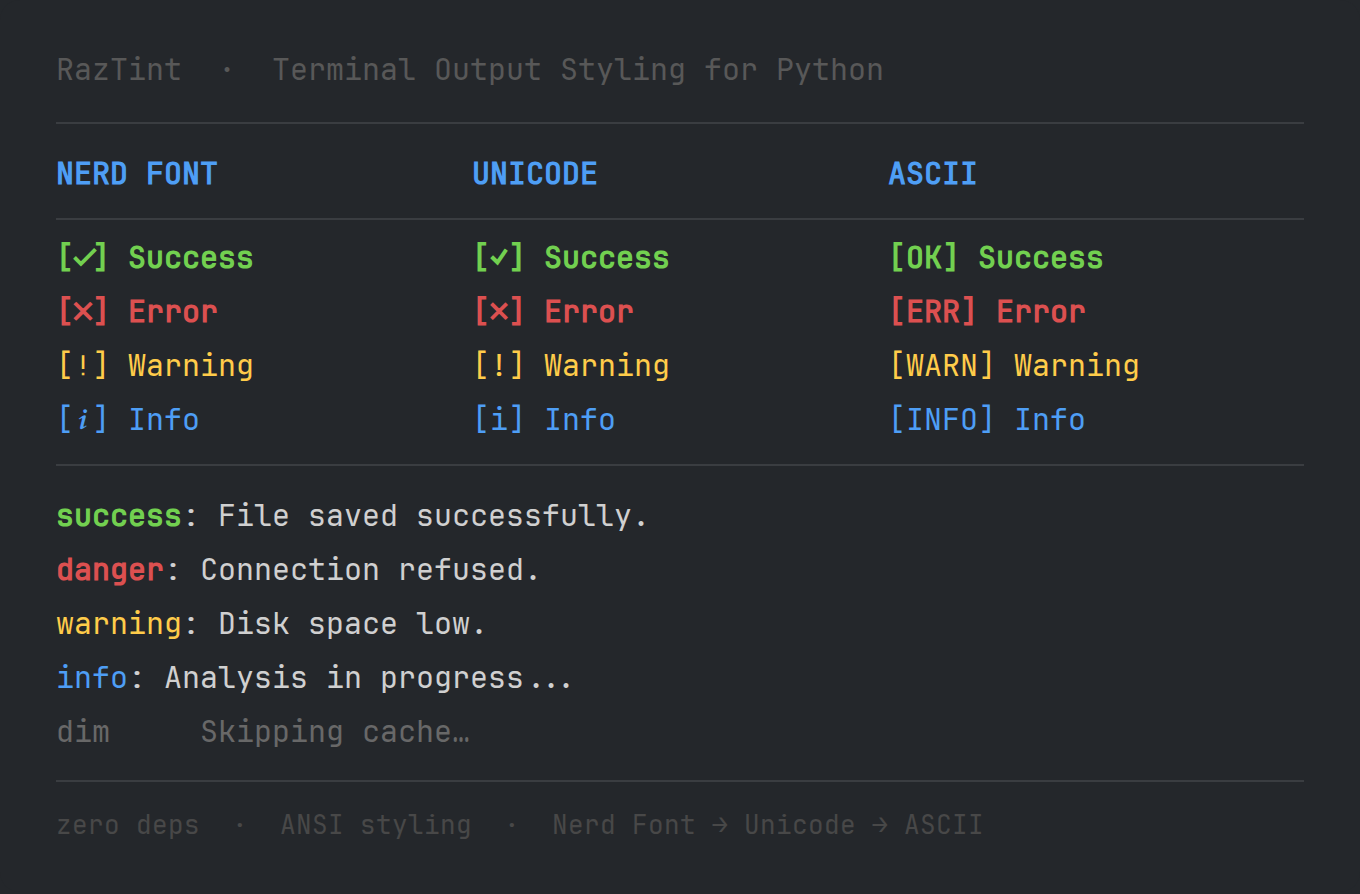
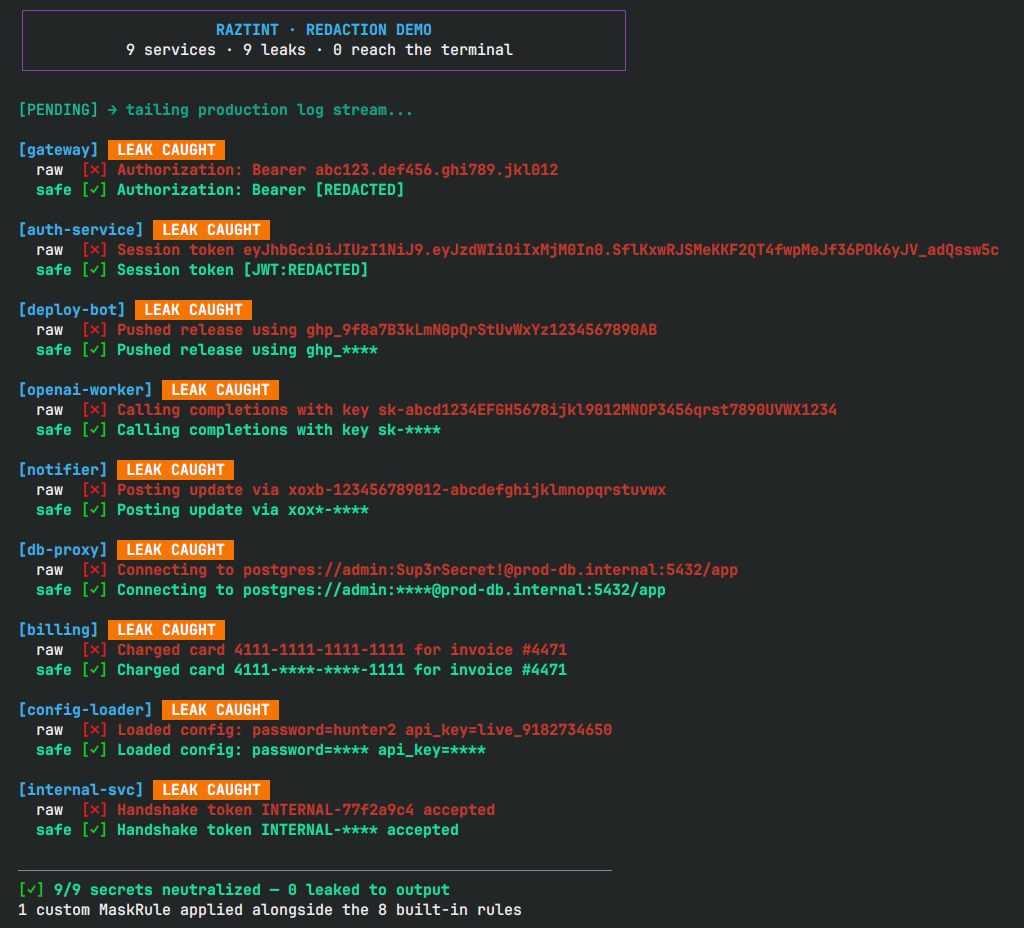
docs: rewrite README with clearer positioning and usage guide

diff --git a/examples/paint_demo.py b/examples/paint_demo.py
@@ -1,12 +1,12 @@
 """
-format_text_demo.py — Full showcase of paint(), the primary RazTint API.
+paint_demo.py Full showcase of paint(), the primary RazTint API.
 
 Covers: colors, background colors, every style, icon modes,
         intents, intent overrides, concatenation with reset=False,
         redaction, and runtime state inspection.
 
 Run:
-    python examples/format_text_demo.py
+    python examples/paint_demo.py
 """
 
 from raztint import paint, tint

diff --git a/examples/basic_usage.py b/examples/basic_usage.py
@@ -1,5 +1,5 @@
 """
-basic_usage.py — RazTint quick-start examples.
+basic_usage.py RazTint quick-start examples.
 
 Run:
     python examples/basic_usage.py

diff --git a/README.md b/README.md
@@ -1,74 +1,56 @@
 <div align="center">
   <img src="https://raw.githubusercontent.com/razbuild/raztint/master/assets/RazTint.svg" alt="RazTint" width="400" />
   <br><br>
-  
+
 [![PyPI Version](https://img.shields.io/pypi/v/raztint)](https://pypi.org/project/raztint/)
 [![Zero Dependencies](https://img.shields.io/badge/dependencies-zero-brightgreen)](https://github.com/razbuild/raztint)
 [![Codecov](https://img.shields.io/codecov/c/github/razbuild/raztint)](https://codecov.io/gh/razbuild/raztint)
 
 [![Python Versions](https://img.shields.io/pypi/pyversions/raztint)](https://pypi.org/project/raztint/)
 [![PyPI Downloads](https://static.pepy.tech/badge/raztint)](https://pepy.tech/project/raztint)
-
-  <p>A zero-dependency Python library for ANSI coloring and smart CLI icons that automatically adapt to your environment.</p>
 </div>
+
+Every module in a CLI codebase ends up inventing its own way to print "success" or "error." One file uses green text, another uses an emoji, a third does both differently. Output looks inconsistent, breaks in CI, and nobody notices until a log line leaks a password.
+
+```python
+# before
+print("\033[32mSuccess\033[0m")
+
+# after
+print(paint("Success", intent="success"))
+```
+
+RazTint defines a fixed mapping from intent (`success`, `danger`, `warning`, …) to color and icon once, and every call site reuses that same mapping instead of picking its own.
 
 ## Preview
 
 <p align="center">
-  <img src="./assets/preview.png" alt="RazTint preview: Nerd Font, Unicode, and ASCII icon modes with colored and styled output examples" width="644"/>
+  <img src="https://raw.githubusercontent.com/razbuild/raztint/master/assets/preview.png" alt="RazTint preview: Nerd Font, Unicode, and ASCII icon modes with colored and styled output examples" width="644"/>
 </p>
-
----
+<p align="center"><em>A simulated production log stream 9 secrets detected, 9 secrets redacted, 0 leaked to the terminal.</em></p>
 
 ## Table of Contents
 
-- [Preview](#preview)
-- [Why RazTint?](#why-raztint)
-- [Features](#features)
-- [Requirements](#requirements)
+- [When to Use RazTint](#when-to-use-raztint)
 - [Installation](#installation)
 - [Quick Start](#quick-start)
+- [How It Compares](#how-it-compares)
+- [Features](#features)
+- [Logging Integration Example](#logging-integration-example)
 - [Documentation](#documentation)
-- [Extended Colors](#extended-colors)
 - [Known Limitations](#known-limitations)
 - [Contributing](#contributing)
 - [License](#license)
 
----
+## When to Use RazTint
 
-## Why RazTint?
+Reach for it if your CLI prints more than a couple of message types and you want them to look the same across modules, or you need output that renders correctly in CI, on Windows, and on terminals without a Nerd Font.
 
-> [!NOTE]
-> RazTint believes terminal styling should be *zero-friction*: no dependencies, no configuration files, no guessing the user's environment. It figures out the rest so you can focus on your CLI logic.
-
-- **Zero dependencies** — Python ≥ 3.10 standard library only
-- **Smart icons** — Nerd Font → Unicode → ASCII fallback, with environment-aware detection
-- **Cross-platform behavior** — Linux, macOS, and Windows, including CI
-- **Minimal setup** — import and use; detection is cached and fast
-
----
-
-## Features
-
-- 🎨 Full ANSI 16-color foreground and background support
-- 🌈 Extended colors: 24-bit True Color (`rgb`, `hex_color`) and 256-color (`color256`)
-- ✨ Text styles: bold, dim, italic, underline, strikethrough
-- 🔍 Status icons with three-tier fallback and environment-aware detection
-- 🖌 **`paint()`** — one call for color, background, styles, and icons
-- 🎯 **Intents** — semantic presets (`success`, `danger`, `warning`, …)
-- 🔒 **Redaction** — mask secrets in logs before printing
-- 💡 Fully type-hinted public API (`py.typed`, IDE autocompletion)
-- ⚙ Configurable via environment variables (`NO_COLOR`, `RAZTINT_FORCE_COLOR`, …)
-
----
-
-## Requirements
-
-- Python 3.10 or newer
-
----
+For a single colored `print()` in a one-off script, plain ANSI codes or `termcolor` are simpler and enough.
 
 ## Installation
+
+Requires Python 3.10+.
 
 ```bash
 pip install raztint
@@ -82,8 +64,6 @@ cd raztint
 uv sync
 ```
 
----
-
 ## Quick Start
 
 ```python
@@ -92,14 +72,14 @@ from raztint import ok, paint
 print(f"{ok()} File saved.")
 print(paint("Connection failed.", color="red", icon="err"))
 
-# Semantic intents
+# intent sets color + icon together from one semantic name
 print(paint("Deployment complete.", intent="success"))
 
-# Mask secrets before logging
+# redact masks secrets before the string is printed
 print(paint("password=1234", intent="debug", redact=True))  # password=****
 ```
 
-Standalone redaction without formatting:
+Redaction on its own, without formatting:
 
 ```python
 from raztint import redact
@@ -108,9 +88,49 @@ print(redact("password=supersecret api_key=ghp_abc123"))
 # password=**** api_key=****
 ```
 
-See [Getting Started](docs/getting-started.md) for more examples. Icon output depends on the detected mode: Nerd Font, standard Unicode, or ASCII.
+More examples in [Getting Started](docs/getting-started.md).
 
----
+## How It Compares
+
+| | `colorama` / `termcolor` | `rich` | RazTint |
+|---|---|---|---|
+| Focus | Raw ANSI codes | Terminal UIs (tables, progress bars) | Consistent CLI messages |
+| Semantic intents | Manual per call site | Manual per call site | Built in |
+| Icon fallback (Nerd Font → Unicode → ASCII) | No | Partial | Automatic, cached |
+| Secret redaction | No | No | Built in |
+| Dependencies | Minimal | Several | None |
+
+RazTint isn't a `rich` replacement for dashboards or tables, it solves the narrower problem of making `ok`/`err`/`warn`/`info` messages consistent and safe by default.
+
+## Features
+
+- **Intents**: presets (`success`, `danger`, `warning`, `debug`, …) that separate meaning from styling
+- **`paint()`**: one call for color, background, styles, and icons
+- **Status icons**: `ok()`, `err()`, `warn()`, `info()`, each with the three-tier fallback
+- **Redaction**: pattern-based masking (`key=value` pairs like `password=`, `api_key=`, `token=`) applied as part of the formatting call, not a separate logging step; patterns are configurable, see [Security & Redaction](docs/redaction.md)
+- **Environment detection**: Nerd Font → Unicode → ASCII, cached; configurable via `NO_COLOR`, `RAZTINT_FORCE_COLOR`
+- **Typed**: `py.typed`, full public API type hints
+- **Low-level escape hatch**: raw 16-color, 256-color, and 24-bit True Color support, plus bold/dim/italic/underline/strikethrough, for when intents aren't enough
+
+## Logging Integration Example
+
+RazTint only returns a formatted string, it doesn't hook into `logging` or replace a handler. Pass that string to `print()`, a logger, or anything else that accepts a string.
+
+```python
+import logging
+from logging import Logger, getLogger
+
+from raztint import paint
+
+logging.basicConfig(level=logging.INFO, format="%(levelname)s: %(message)s")
+logger: Logger = getLogger(__name__)
+
+logger.info(paint("Database migration completed.", intent="success", icon=None))
+logger.warning(paint("Disk usage above 90%.", intent="warning", icon=None, style="dim"))
+logger.error(
+    paint("Authentication failed for token=abc123", intent="danger", redact=True, icon=None)
+)
+```
 
 ## Documentation
 
@@ -125,61 +145,24 @@ See [Getting Started](docs/getting-started.md) for more examples. Icon output de
 | [Development](docs/development.md) | Local setup, tests, and linting |
 | [Tutorial](docs/tutorial.md) | Philosophy, detection walk-through, and best practices |
 
-### Examples
+### Example Scripts
 
 | Script | Description |
 |---|---|
 | [`examples/basic_usage.py`](examples/basic_usage.py) | Colors, styles, icons, intents, and redaction in one script |
-| [`examples/format_text_demo.py`](examples/format_text_demo.py) | Full `paint()` showcase — every color, style, and icon mode |
-| [`examples/real_world_cli.py`](examples/real_world_cli.py) | Simulated file-processor CLI showing real integration patterns |
-
----
-
-## Extended Colors
-
-RazTint supports **24-bit True Color** and **256-color** mode via raw ANSI escape sequences — no extra dependencies.
-
-```python
-from raztint import rgb, hex_color, color256
-from raztint import bg_rgb, bg_hex_color, bg_color256
-
-# True Color foreground
-print(rgb("This is orange text", 255, 100, 50))
-print(hex_color("Same orange via hex", "#FF6432"))
-
-# True Color background
-print(bg_rgb("Orange background", 255, 100, 50))
-print(bg_hex_color("Same via hex", "#FF6432"))
-
-# 256-color
-print(color256("Orange via 256 palette", 208))
-print(bg_color256("Background 256", 208))
-
-# Compose freely with existing helpers
-from raztint import bold
-print(bold(rgb("Bold True Color text", 0, 200, 0)))
-print(rgb(bg_color256("White on orange bg", 208), 255, 255, 255))
-```
-> [!NOTE]
-> **Terminal support:** True Color requires a terminal that supports `TERM=xterm-256color` or similar. `NO_COLOR` and `RAZTINT_FORCE_COLOR` are respected.
-
----
+| [`examples/format_text_demo.py`](examples/format_text_demo.py) | Every color, style, and icon mode |
+| [`examples/real_world_cli.py`](examples/real_world_cli.py) | Simulated file-processor CLI |
 
 ## Known Limitations
 
-- **Python 3.10+** — older versions are not supported.
-- **Font detection relies on OS tools** — `fc-list` (Linux), `system_profiler` (macOS), PowerShell (Windows). Set `RAZTINT_SKIP_SYSTEM_FONT_SCAN=1` in sandboxed environments.
-- **Strict `NO_COLOR` compliance** — when `NO_COLOR` is set, all colour output is suppressed regardless of other settings.
-
----
+- Python 3.10+ only.
+- Font detection relies on OS tools (`fc-list` on Linux, `system_profiler` on macOS, PowerShell on Windows). Set `RAZTINT_SKIP_SYSTEM_FONT_SCAN=1` in sandboxed environments.
+- When `NO_COLOR` is set, all color output is suppressed regardless of other settings.
 
 ## Contributing
 
-PRs and issues are welcome.
-If you find a bug or want to add a feature, open an issue first so we can discuss it.
+PRs and issues are welcome. Open an issue first to discuss before starting work on a feature.
 See [CONTRIBUTING.md](https://github.com/razbuild/.github/blob/main/CONTRIBUTING.md) for setup and guidelines.
-
----
 
 ## License
 
